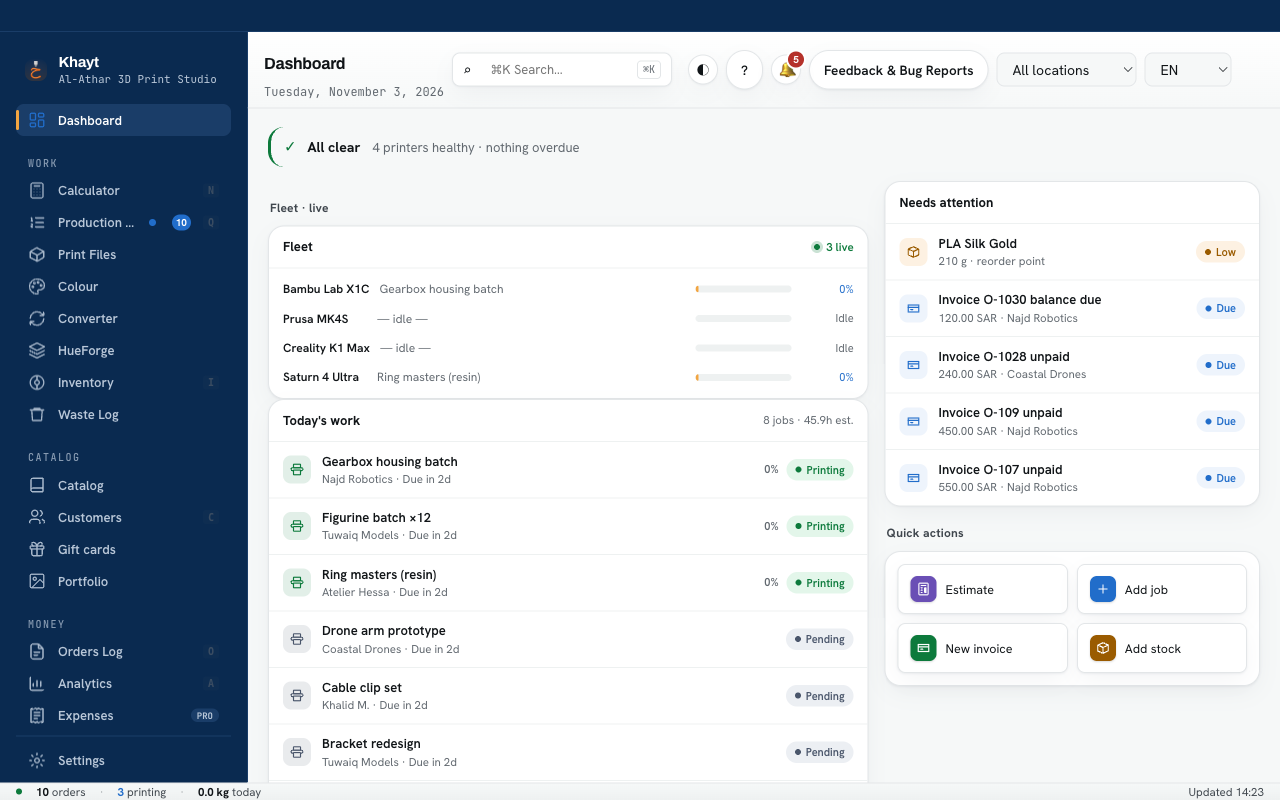
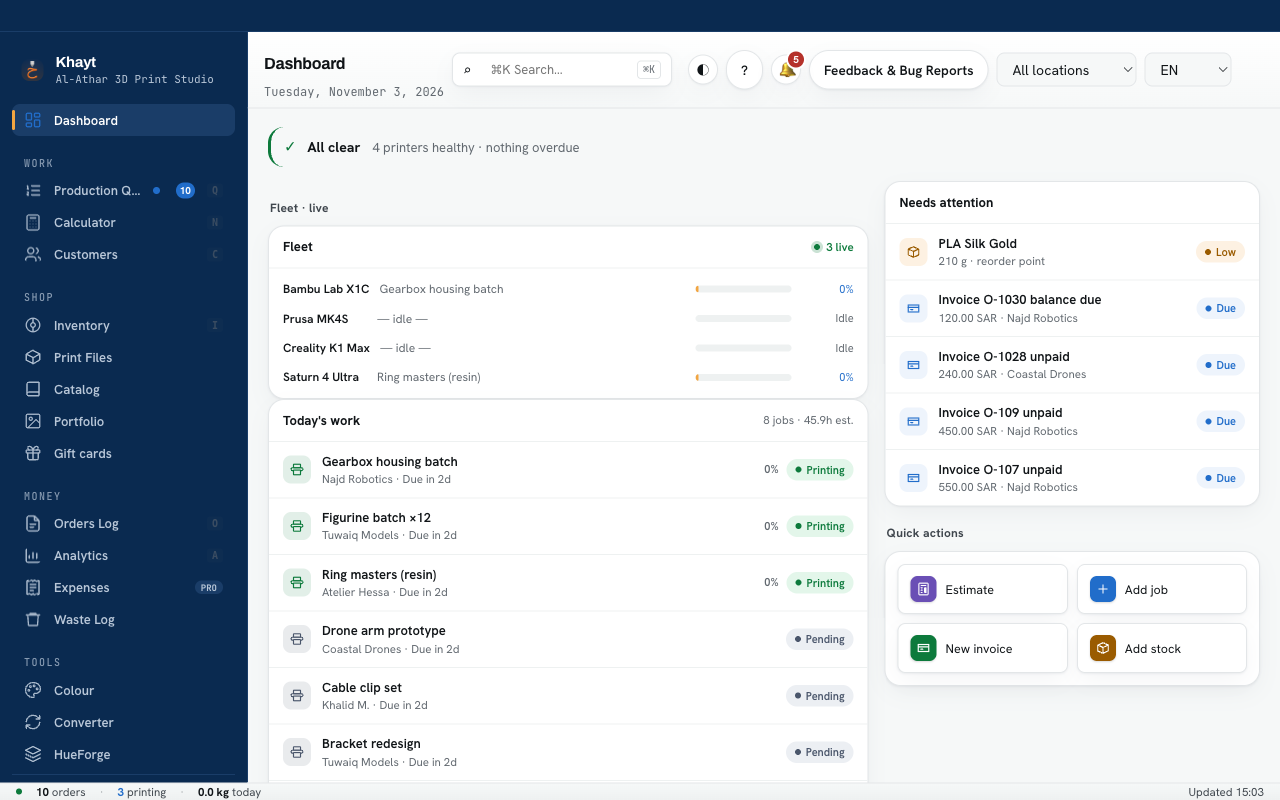
Khayt theme: Work / Shop / Money / Tools sidebar groups
Claude-Session: https://claude.ai/code/session_01RAkGRJQRSdkHiyXxgfPAiP

diff --git a/renderer/themes/workbench/shell.js b/renderer/themes/workbench/shell.js
@@ -26,6 +26,27 @@
       tabs: ['logs-tab', 'analytics-tab', 'expenses-tab'] },
   ];
 
+  // The Khayt design (the 2026 identity) groups by what the shop is doing
+  // rather than by data type, as drawn in the approved redesign: the work in
+  // hand, the shop's stock and catalogue, the money, and the standalone tools.
+  const KHAYT_GROUPS = [
+    { key: 'work', labelKey: 'workbench.group.work', label: 'Work',
+      tabs: ['queue-tab', 'calculator-tab', 'clients-tab'] },
+    { key: 'shop', labelKey: 'workbench.group.shop', label: 'Shop',
+      tabs: ['inventory-tab', 'printfiles-tab', 'catalog-tab', 'portfolio-tab', 'gift-cards-tab'] },
+    { key: 'money', labelKey: 'workbench.group.money', label: 'Money',
+      tabs: ['logs-tab', 'analytics-tab', 'expenses-tab', 'waste-tab'] },
+    { key: 'tools', labelKey: 'workbench.group.tools', label: 'Tools',
+      tabs: ['colorstudio-tab', 'converter-tab', 'hueforge-tab'] },
+  ];
+
+  function activeGroupSet() {
+    return document.body.classList.contains('khayt-2026') ? 'khayt' : 'workbench';
+  }
+  function activeGroups() {
+    return activeGroupSet() === 'khayt' ? KHAYT_GROUPS : GROUPS;
+  }
+
 
 
   function isOn() { return document.body.classList.contains('khayt-workbench'); }
@@ -46,7 +67,15 @@
 
   function buildGroups() {
     const nav = document.querySelector('.khayt-nav');
-    if (!nav || nav.querySelector('[data-wb-group]')) return; // already built
+    if (!nav) return;
+    // Built already: keep it, unless it was built for the other group set (a
+    // switch between Workbench and Khayt keeps the same shell, so teardown never
+    // runs between them).
+    if (nav.querySelector('[data-wb-group]')) {
+      if (nav.dataset.wbGroupSet === activeGroupSet()) return;
+      restoreGroups();
+    }
+    nav.dataset.wbGroupSet = activeGroupSet();
 
     // Remember each button's original parent + position so teardown can restore.
     nav.querySelectorAll('.tab-btn[data-tab]').forEach((btn) => {
@@ -66,7 +95,7 @@
       }
     });
 
-    GROUPS.forEach((grp) => {
+    activeGroups().forEach((grp) => {
       const wrap = document.createElement('div');
       wrap.className = 'khayt-navsec nav-group';
       wrap.dataset.wbGroup = grp.key;
@@ -135,7 +164,7 @@
 
   function relabelGroups() {
     document.querySelectorAll('[data-wb-group-head]').forEach((head) => {
-      const grp = GROUPS.find((g) => g.key === head.closest('[data-wb-group]')?.dataset.wbGroup);
+      const grp = activeGroups().find((g) => g.key === head.closest('[data-wb-group]')?.dataset.wbGroup);
       if (grp) head.textContent = tr(grp.labelKey, grp.label);
     });
   }
@@ -162,6 +191,7 @@
       delete btn.dataset.wbHomeIdx;
     });
     document.querySelectorAll('[data-wb-group]').forEach((el) => el.remove());
+    delete document.querySelector('.khayt-nav')?.dataset.wbGroupSet;
     document.querySelectorAll('.khayt-navsec').forEach((sec) => {
       sec.classList.remove('wb-nav-empty');
       if (sec.dataset.wbEmptyHidden) { sec.style.display = ''; delete sec.dataset.wbEmptyHidden; }

diff --git a/renderer/themes/khayt/shell.css b/renderer/themes/khayt/shell.css
@@ -51,13 +51,13 @@ body.khayt-2026 .khayt-navhead {
   letter-spacing: 1.5px;
   color: var(--kh-on-dark-soft);
   opacity: 0.72;
-  padding: 12px 12px 4px;
+  padding: 10px 12px 2px;
 }
 
 body.khayt-2026 .khayt-navitem {
   color: var(--kh-on-dark-soft);
   font-weight: 600;
-  padding: 7px 12px;
+  padding: 5px 12px;
   gap: 12px;
 }
 body.khayt-2026 .khayt-navitem:hover { background: var(--kh-navy-deep); color: var(--kh-on-dark); }

diff --git a/mac/KhaytCore/Sources/KhaytCore/JS/locale-ar.js b/mac/KhaytCore/Sources/KhaytCore/JS/locale-ar.js
@@ -1712,6 +1712,8 @@
   "workbench.group.work": "العمل",
   "workbench.group.catalog": "الكتالوج",
   "workbench.group.money": "المال",
+  "workbench.group.shop": "المتجر",
+  "workbench.group.tools": "الأدوات",
   "workbench.status.orders": "طلبات",
   "workbench.status.printing": "قيد الطباعة",
   "workbench.status.today": "اليوم",

diff --git a/renderer/locales/ar.js b/renderer/locales/ar.js
@@ -1712,6 +1712,8 @@
   "workbench.group.work": "العمل",
   "workbench.group.catalog": "الكتالوج",
   "workbench.group.money": "المال",
+  "workbench.group.shop": "المتجر",
+  "workbench.group.tools": "الأدوات",
   "workbench.status.orders": "طلبات",
   "workbench.status.printing": "قيد الطباعة",
   "workbench.status.today": "اليوم",

diff --git a/mac/KhaytCore/Sources/KhaytCore/JS/locale-fr.js b/mac/KhaytCore/Sources/KhaytCore/JS/locale-fr.js
@@ -1643,6 +1643,8 @@
   "workbench.group.work": "Travail",
   "workbench.group.catalog": "Catalogue",
   "workbench.group.money": "Finances",
+  "workbench.group.shop": "Boutique",
+  "workbench.group.tools": "Outils",
   "workbench.status.orders": "commandes",
   "workbench.status.printing": "impression",
   "workbench.status.today": "aujourd'hui",

diff --git a/renderer/locales/fr.js b/renderer/locales/fr.js
@@ -1643,6 +1643,8 @@
   "workbench.group.work": "Travail",
   "workbench.group.catalog": "Catalogue",
   "workbench.group.money": "Finances",
+  "workbench.group.shop": "Boutique",
+  "workbench.group.tools": "Outils",
   "workbench.status.orders": "commandes",
   "workbench.status.printing": "impression",
   "workbench.status.today": "aujourd'hui",

diff --git a/mac/KhaytCore/Sources/KhaytCore/JS/locale-ja.js b/mac/KhaytCore/Sources/KhaytCore/JS/locale-ja.js
@@ -1643,6 +1643,8 @@
   "workbench.group.work": "作業",
   "workbench.group.catalog": "カタログ",
   "workbench.group.money": "会計",
+  "workbench.group.shop": "ショップ",
+  "workbench.group.tools": "ツール",
   "workbench.status.orders": "注文",
   "workbench.status.printing": "印刷中",
   "workbench.status.today": "今日",

diff --git a/renderer/locales/ja.js b/renderer/locales/ja.js
@@ -1643,6 +1643,8 @@
   "workbench.group.work": "作業",
   "workbench.group.catalog": "カタログ",
   "workbench.group.money": "会計",
+  "workbench.group.shop": "ショップ",
+  "workbench.group.tools": "ツール",
   "workbench.status.orders": "注文",
   "workbench.status.printing": "印刷中",
   "workbench.status.today": "今日",

diff --git a/mac/KhaytCore/Sources/KhaytCore/JS/locale-es.js b/mac/KhaytCore/Sources/KhaytCore/JS/locale-es.js
@@ -1643,6 +1643,8 @@
   "workbench.group.work": "Trabajo",
   "workbench.group.catalog": "Catálogo",
   "workbench.group.money": "Finanzas",
+  "workbench.group.shop": "Tienda",
+  "workbench.group.tools": "Herramientas",
   "workbench.status.orders": "pedidos",
   "workbench.status.printing": "imprimiendo",
   "workbench.status.today": "hoy",

diff --git a/mac/KhaytCore/Sources/KhaytCore/JS/locale-pt-BR.js b/mac/KhaytCore/Sources/KhaytCore/JS/locale-pt-BR.js
@@ -1644,6 +1644,8 @@
   "workbench.group.work": "Trabalho",
   "workbench.group.catalog": "Catálogo",
   "workbench.group.money": "Financeiro",
+  "workbench.group.shop": "Loja",
+  "workbench.group.tools": "Ferramentas",
   "workbench.status.orders": "pedidos",
   "workbench.status.printing": "imprimindo",
   "workbench.status.today": "hoje",

diff --git a/renderer/locales/es.js b/renderer/locales/es.js
@@ -1643,6 +1643,8 @@
   "workbench.group.work": "Trabajo",
   "workbench.group.catalog": "Catálogo",
   "workbench.group.money": "Finanzas",
+  "workbench.group.shop": "Tienda",
+  "workbench.group.tools": "Herramientas",
   "workbench.status.orders": "pedidos",
   "workbench.status.printing": "imprimiendo",
   "workbench.status.today": "hoy",

diff --git a/renderer/locales/pt-BR.js b/renderer/locales/pt-BR.js
@@ -1644,6 +1644,8 @@
   "workbench.group.work": "Trabalho",
   "workbench.group.catalog": "Catálogo",
   "workbench.group.money": "Financeiro",
+  "workbench.group.shop": "Loja",
+  "workbench.group.tools": "Ferramentas",
   "workbench.status.orders": "pedidos",
   "workbench.status.printing": "imprimindo",
   "workbench.status.today": "hoje",
